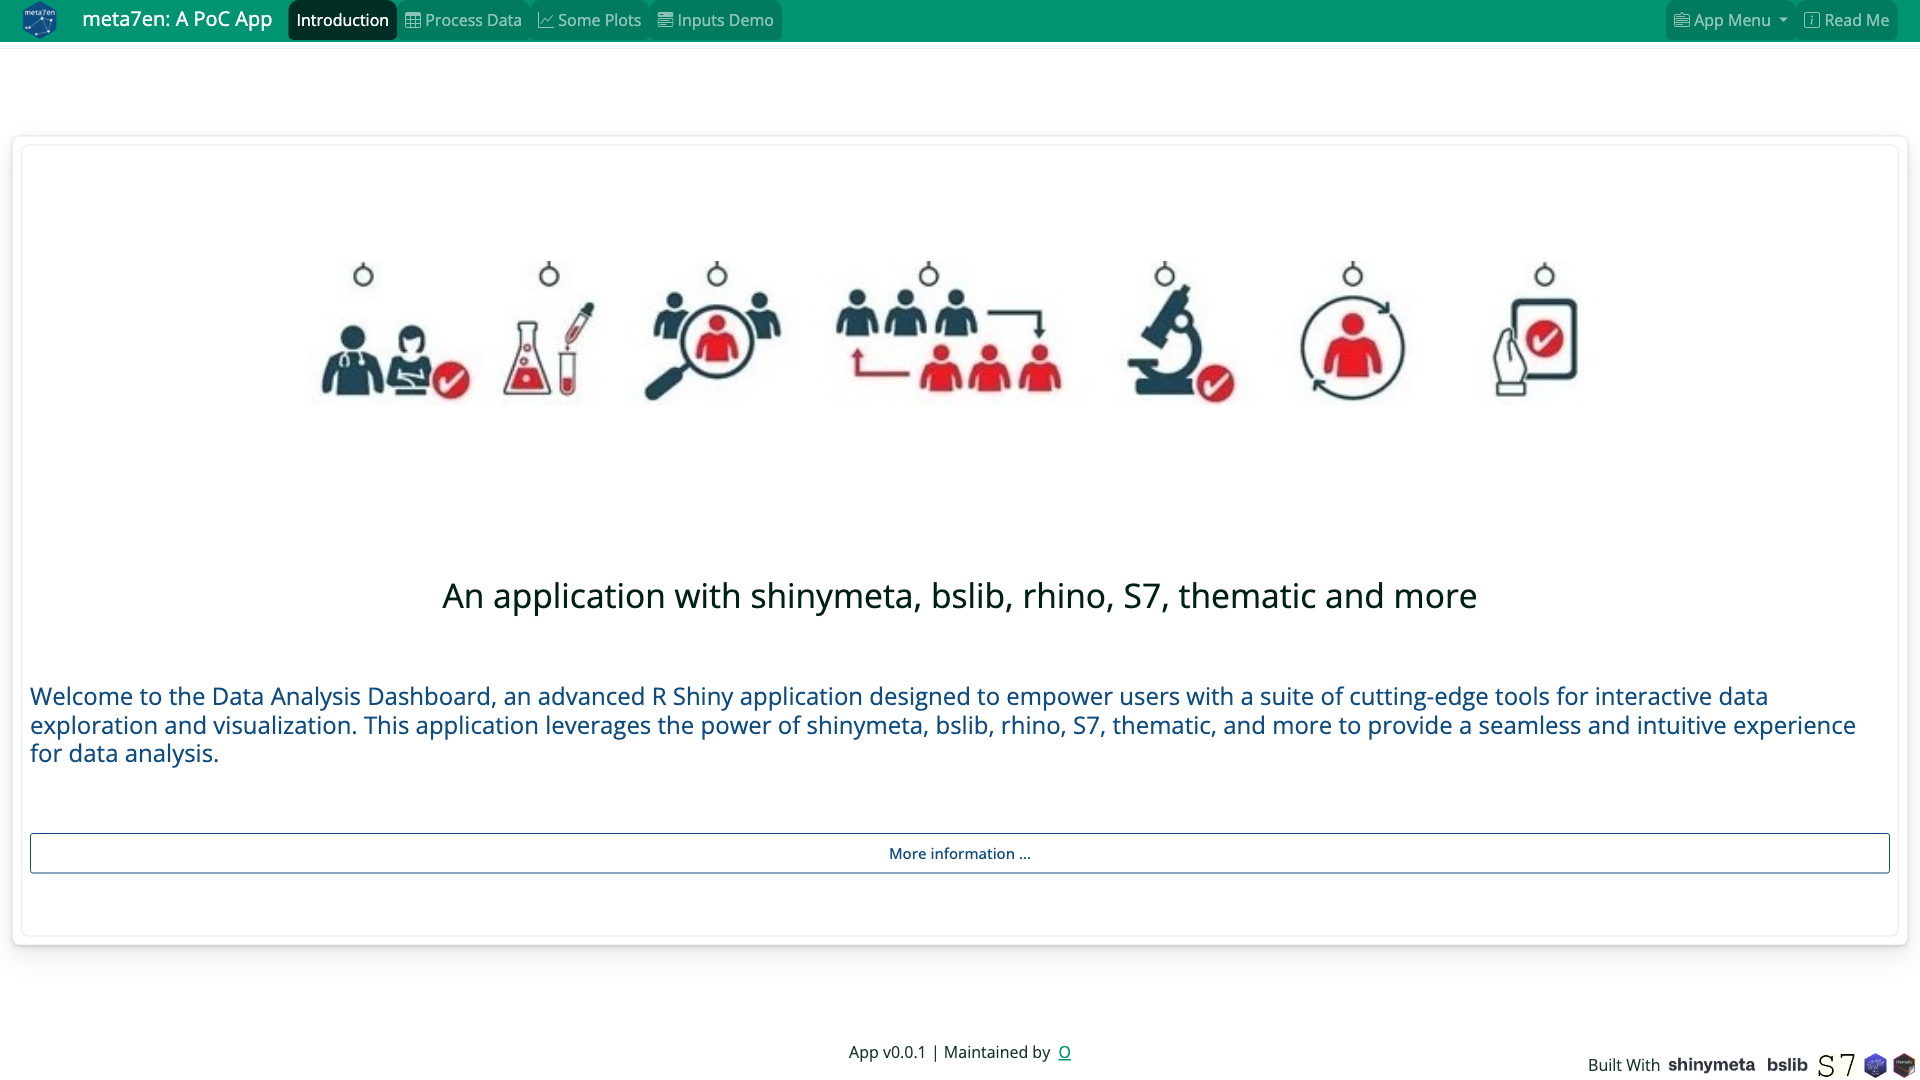
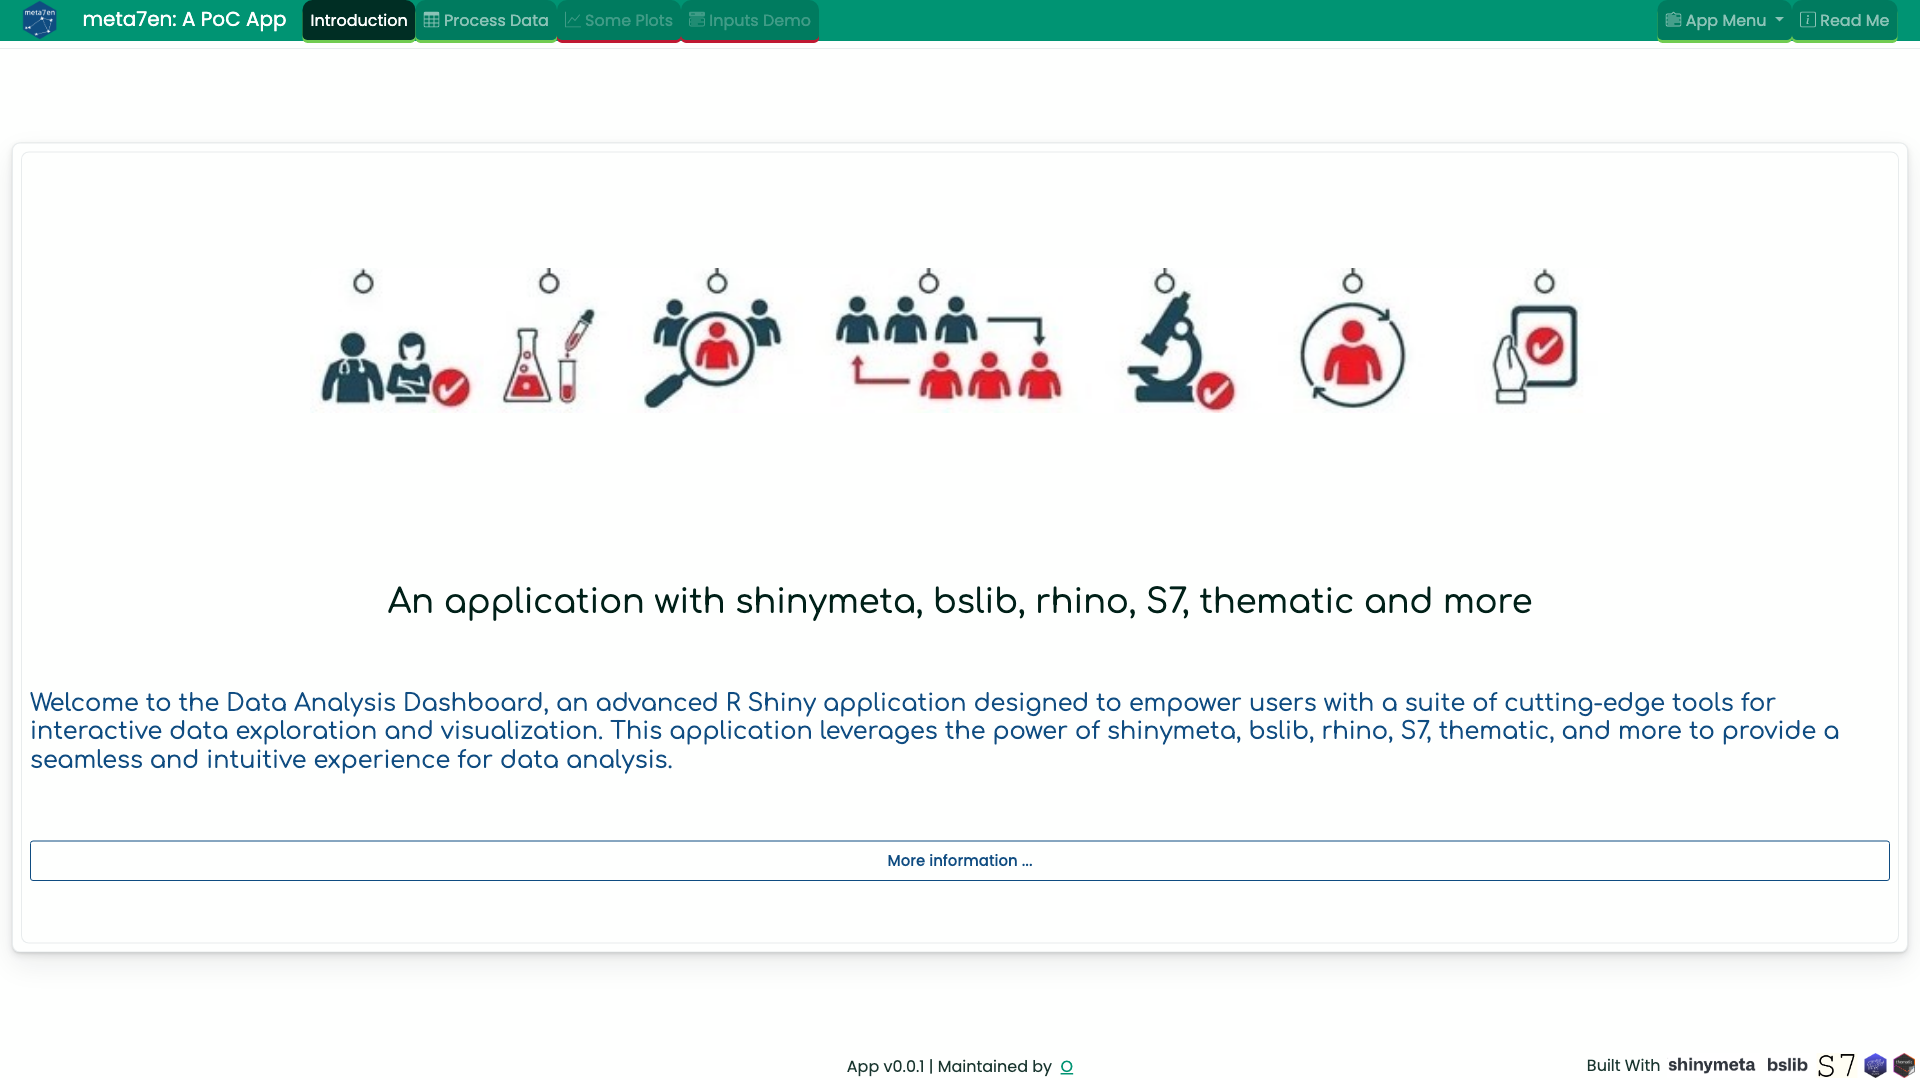
update screenshot

diff --git a/app/static/css/app.min.css b/app/static/css/app.min.css
@@ -1,1 +1,1 @@
-@import url("https://fonts.googleapis.com/css2?family=Poppins:ital,wght@0,100;0,200;0,300;0,400;0,500;0,600;0,700;0,800;0,900;1,100;1,200;1,300;1,400;1,500;1,600;1,700;1,800;1,900&display=swap");@import url("https://fonts.googleapis.com/css2?family=Comfortaa:wght@300..700&display=swap");@import url("https://fonts.googleapis.com/css2?family=Fira+Code:wght@300..700&display=swap");body{padding-top:3rem !important;padding-bottom:0.1rem !important}body .tab-pane{padding-left:0 !important;padding-right:0 !important}*::-webkit-scrollbar{width:8px !important}*::-webkit-scrollbar-track{border-radius:8px;background-color:#fefffe;border:1px solid #fff;box-shadow:inset 0 0 6px #e5ffe5}*::-webkit-scrollbar-thumb{border-radius:8px;background-color:#cbffcb}.popover-header{background:#1a82dc}.popover-body{background:#298ee6}.bslib-page-navbar>.navbar,.bslib-page-dashboard>.navbar{padding-top:0;padding-bottom:1px}.nav-link{border-radius:10px 10px 5px 5px;background:#007b5f;text-align:-webkit-center;box-shadow:0 3px 0 0 #71cc51}.nav-link.active,.nav-link:hover{background:#002e24}.nav-link.disabled{box-shadow:0 3px 0 0 #bf1932}.app-title{display:inline !important}.app-title img{height:40px;margin-right:20px}.app-footer{align-self:center;display:flex}.app-footer .footer-images{height:25px;right:5px;bottom:2px;position:fixed;display:flex;gap:7px}.checkbox-primary input[type="checkbox"]:checked+label::before,.checkbox-primary input[type="radio"]:checked+label::before{background-color:#009473;border-color:#009473}.radio-primary input[type="radio"]:checked+label::before{border-color:#009473}.radio-primary input[type="radio"]:checked+label::after{background-color:#009473}.radio-primary input[type="radio"]+label::after{background-color:#009473}.noUi-connect{background:#009473}.knob-input{color:#009473 !important}.irs--shiny .irs-bar{border-top:1px solid #009473;border-bottom:1px solid #009473;background:#009473}.irs--shiny .irs-handle{background-color:#009473}.treejs .treejs-node__halfchecked>.treejs-checkbox::before{background-color:#009473;border-color:#009473}.bttn-unite.bttn-default{border-color:#009473;color:#009473}.bttn-unite.bttn-default:focus,.bttn-unite.bttn-default:hover{color:#009473;background:#fff}.bttn-unite.bttn-default::before{background:#00ae87;opacity:0.5}.bttn-unite.bttn-default::after{background:#00e1ae;opacity:0.3}.irs--shiny .irs-from,.irs--shiny .irs-to,.irs--shiny .irs-single{color:#fefffe;background-color:#009473}.treejs .treejs-node__checked>.treejs-checkbox::before{background-color:#009473;border-color:#009473}.irs--shiny .irs-handle.state_hover,.irs--shiny .irs-handle:hover{background:#009473}.air-datepicker-cell.-selected-,.air-datepicker-cell.-selected-.-current-{color:#fefffe;background:#009473}.air-datepicker-cell.-selected-.-focus-{background:#009473}.air-datepicker-body--day-name{color:#0f4c81}.air-datepicker-cell.-current-{color:#009473}.air-datepicker-button{color:#009473}.datepicker table tr td.active:active,.datepicker table tr td.active.active,.datepicker table tr td.active.highlighted:active,.datepicker table tr td.active.highlighted.active{color:#fff;background-color:#009473;border-color:#009473}.datepicker table tr td span.active:active,.datepicker table tr td span.active.active,.datepicker table tr td span.active:hover:active,.datepicker table tr td span.active:hover.active,.datepicker table tr td span.active.disabled:active,.datepicker table tr td span.active.disabled.active,.datepicker table tr td span.active.disabled:hover:active,.datepicker table tr td span.active.disabled:hover.active{color:#fff;background-color:#009473;border-color:#009473}.bootstrap-switch .bootstrap-switch-handle-on.bootstrap-switch-primary,.bootstrap-switch .bootstrap-switch-handle-off.bootstrap-switch-primary{background:#009473;color:#fff}.vscomp-wrapper.multiple .vscomp-option.selected .checkbox-icon::after{border-color:#009473;border-left-color:rgba(0,0,0,0);border-top-color:rgba(0,0,0,0)}.selectize-dropdown .selected{background-color:#0f4c81}.modal-lg,.modal-xl{--bs-modal-width: 1000px}.tab-pane{justify-content:space-evenly !important}.welcome-page *{justify-content:space-evenly !important}.welcome-text h1{color:#002018}.welcome-text h4{color:#0f4c81}.modal{overflow:hidden}.shiny-notification{padding:1rem 2rem 0.5rem 1rem !important}.dataTables_wrapper{text-align:-webkit-center}.welcome-text h1{align-self:center}textarea.form-control{height:300px !important}
+@import "https://fonts.googleapis.com/css2?family=Poppins:ital,wght@0,100;0,200;0,300;0,400;0,500;0,600;0,700;0,800;0,900;1,100;1,200;1,300;1,400;1,500;1,600;1,700;1,800;1,900&display=swap";@import "https://fonts.googleapis.com/css2?family=Comfortaa:wght@300..700&display=swap";@import "https://fonts.googleapis.com/css2?family=Fira+Code:wght@300..700&display=swap";body{padding-top:3rem !important;padding-bottom:0.1rem !important}body .tab-pane{padding-left:0 !important;padding-right:0 !important}*::-webkit-scrollbar{width:8px !important}*::-webkit-scrollbar-track{border-radius:8px;background-color:#fefffe;border:1px solid #fff;box-shadow:inset 0 0 6px #e5ffe5}*::-webkit-scrollbar-thumb{border-radius:8px;background-color:#cbffcb}.popover-header{background:#1a82dc}.popover-body{background:#298ee6}.bslib-page-navbar>.navbar,.bslib-page-dashboard>.navbar{padding-top:0;padding-bottom:1px}.nav-link{border-radius:10px 10px 5px 5px;background:#007b5f;text-align:-webkit-center;box-shadow:0 3px 0 0 #71cc51}.nav-link.active,.nav-link:hover{background:#002e24}.nav-link.disabled{box-shadow:0 3px 0 0 #bf1932}.app-title{display:inline !important}.app-title img{height:40px;margin-right:20px}.app-footer{align-self:center;display:flex}.app-footer .footer-images{height:25px;right:5px;bottom:2px;position:fixed;display:flex;gap:7px}.checkbox-primary input[type="checkbox"]:checked+label::before,.checkbox-primary input[type="radio"]:checked+label::before{background-color:#009473;border-color:#009473}.radio-primary input[type="radio"]:checked+label::before{border-color:#009473}.radio-primary input[type="radio"]:checked+label::after{background-color:#009473}.radio-primary input[type="radio"]+label::after{background-color:#009473}.noUi-connect{background:#009473}.knob-input{color:#009473 !important}.irs--shiny .irs-bar{border-top:1px solid #009473;border-bottom:1px solid #009473;background:#009473}.irs--shiny .irs-handle{background-color:#009473}.treejs .treejs-node__halfchecked>.treejs-checkbox::before{background-color:#009473;border-color:#009473}.bttn-unite.bttn-default{border-color:#009473;color:#009473}.bttn-unite.bttn-default:focus,.bttn-unite.bttn-default:hover{color:#009473;background:#fff}.bttn-unite.bttn-default::before{background:#00ae87;opacity:0.5}.bttn-unite.bttn-default::after{background:#00e1ae;opacity:0.3}.irs--shiny .irs-from,.irs--shiny .irs-to,.irs--shiny .irs-single{color:#fefffe;background-color:#009473}.treejs .treejs-node__checked>.treejs-checkbox::before{background-color:#009473;border-color:#009473}.irs--shiny .irs-handle.state_hover,.irs--shiny .irs-handle:hover{background:#009473}.air-datepicker-cell.-selected-,.air-datepicker-cell.-selected-.-current-{color:#fefffe;background:#009473}.air-datepicker-cell.-selected-.-focus-{background:#009473}.air-datepicker-body--day-name{color:#0f4c81}.air-datepicker-cell.-current-{color:#009473}.air-datepicker-button{color:#009473}.datepicker table tr td.active:active,.datepicker table tr td.active.active,.datepicker table tr td.active.highlighted:active,.datepicker table tr td.active.highlighted.active{color:#fff;background-color:#009473;border-color:#009473}.datepicker table tr td span.active:active,.datepicker table tr td span.active.active,.datepicker table tr td span.active:hover:active,.datepicker table tr td span.active:hover.active,.datepicker table tr td span.active.disabled:active,.datepicker table tr td span.active.disabled.active,.datepicker table tr td span.active.disabled:hover:active,.datepicker table tr td span.active.disabled:hover.active{color:#fff;background-color:#009473;border-color:#009473}.bootstrap-switch .bootstrap-switch-handle-on.bootstrap-switch-primary,.bootstrap-switch .bootstrap-switch-handle-off.bootstrap-switch-primary{background:#009473;color:#fff}.vscomp-wrapper.multiple .vscomp-option.selected .checkbox-icon::after{border-color:#009473;border-left-color:rgba(0,0,0,0);border-top-color:rgba(0,0,0,0)}.selectize-dropdown .selected{background-color:#0f4c81}.modal-lg,.modal-xl{--bs-modal-width: 1000px}.tab-pane{justify-content:space-evenly !important}.welcome-page *{justify-content:space-evenly !important}.welcome-text h1{color:#002018}.welcome-text h4{color:#0f4c81}.modal{overflow:hidden}.shiny-notification{padding:1rem 2rem 0.5rem 1rem !important}.dataTables_wrapper{text-align:-webkit-center}.welcome-text h1{align-self:center}textarea.form-control{height:300px !important}

diff --git a/app/styles/modules/theme.scss b/app/styles/modules/theme.scss
@@ -15,13 +15,16 @@ $shiny_widgets_primary: $secondary;
 $shiny_widgets_secondary: $primary;
 
 // Poppins
-@import url('https://fonts.googleapis.com/css2?family=Poppins:ital,wght@0,100;0,200;0,300;0,400;0,500;0,600;0,700;0,800;0,900;1,100;1,200;1,300;1,400;1,500;1,600;1,700;1,800;1,900&display=swap');
+@import "https://fonts.googleapis.com/css2?family=Poppins:ital,wght@0,100;0,200;0,300;0,400;0,500;0,600;0,700;0,800;0,900;1,100;1,200;1,300;1,400;1,500;1,600;1,700;1,800;1,900&display=swap";
+
 $font-body: "Poppins", sans-serif;
 
 // Comfortaa
-@import url('https://fonts.googleapis.com/css2?family=Comfortaa:wght@300..700&display=swap');
+@import "https://fonts.googleapis.com/css2?family=Comfortaa:wght@300..700&display=swap";
+
 $font-title: "Comfortaa", sans-serif;
 
 // Fira Code
-@import url('https://fonts.googleapis.com/css2?family=Fira+Code:wght@300..700&display=swap');
+@import "https://fonts.googleapis.com/css2?family=Fira+Code:wght@300..700&display=swap";
+
 $font-code: "Fira Code", sans-serif;
